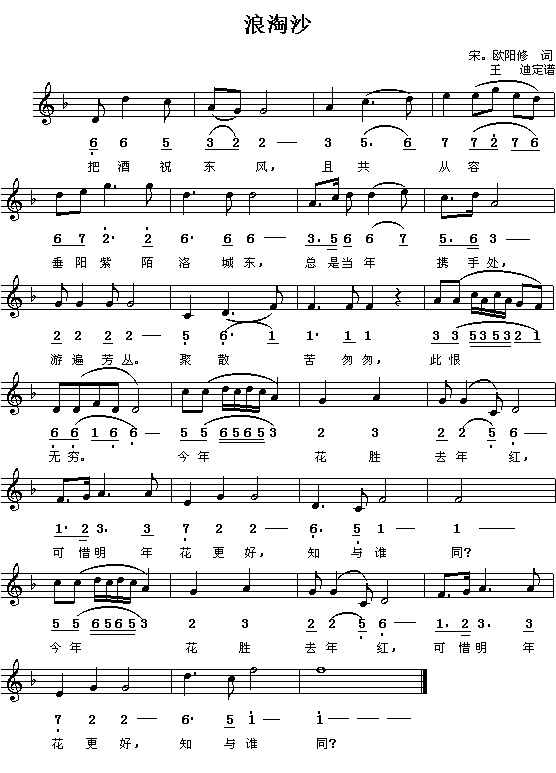
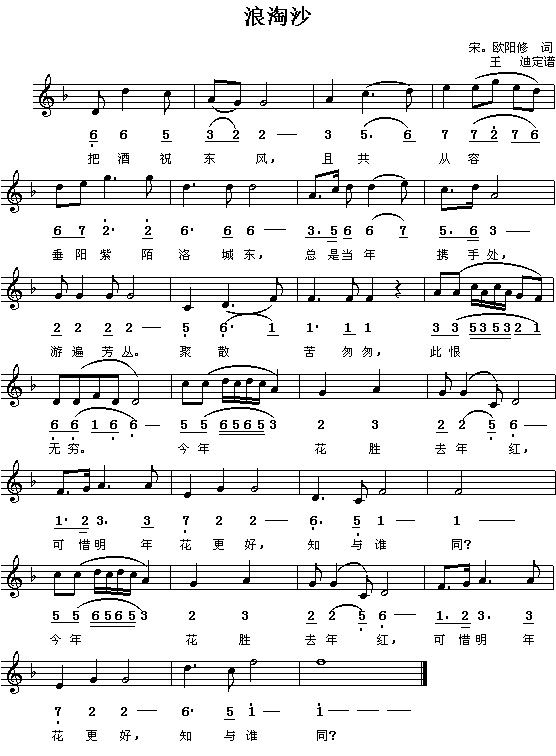
正月初一添加欧阳修曲谱

Changed region(s): [[0.0, 0.0608, 1.0, 0.9735], [0.4281, 0.0, 0.5504, 0.0608]]

diff --git a/myflute.tex b/myflute.tex
@@ -51,15 +51,17 @@
 	\includegraphics[width=\textwidth]{dongxiao/Scan 6.jpeg}
 
 \chapter{首选}
-\section{世上只有媽媽好}        \includegraphics[width=\textwidth]{dongxiao/IMG_0854-世上只有妈妈好.png}
 \section{鐘聲}                  \includegraphics[width=\textwidth]{dongxiao/20200711-钟声.jpg}
-\section{小草}                  \includegraphics[width=\textwidth]{rpi400/20210131小草.jpeg}
-\section{寒山僧踪}              \includegraphics[width=\textwidth]{dongxiao/20200710-寒山僧踪.jpg}
+\section{世上只有媽媽好}        \includegraphics[width=\textwidth]{dongxiao/IMG_0854-世上只有妈妈好.png}
 \section{般若}                  \includegraphics[width=\textwidth]{macos/20210205般若.png}
-\section{雪梅疏影}              \includegraphics[width=0.9\textwidth]{dongxiao/20200725-雪梅疏影}
+\section{寒山僧踪}              \includegraphics[width=\textwidth]{dongxiao/20200710-寒山僧踪.jpg}
 \section{静夜思}                \includegraphics[width=0.9\textwidth]{dongxiao/20200411-静夜思}
-\section{虫儿飞} \includegraphics[width=0.9\textwidth]{macos/20210208虫儿飞.jpg}
+\section{游京} \includegraphics[width=0.9\textwidth]{macos/2020游京.png}
 \section{饮酒}                  \includegraphics[width=\textwidth]{dongxiao/20200808-饮酒-陶渊明.jpg}
+\section{有所思}    \includegraphics[width=\textwidth]{dongxiao/20200710-有所思}
+\section{小草}                  \includegraphics[width=\textwidth]{rpi400/20210131小草.jpeg}
+\section{雪梅疏影}              \includegraphics[width=0.9\textwidth]{dongxiao/20200725-雪梅疏影}
+\section{虫儿飞} \includegraphics[width=0.9\textwidth]{macos/20210208虫儿飞.jpg}
 \section{橄榄树} \includegraphics[width=\textwidth]{rpi400/20210206橄榄树.png}
 \section{任花落} \includegraphics[width=0.9\textwidth]{rpi400/20210206任花落.png}
 \section{问佛} \includegraphics[width=0.9\textwidth]{rpi400/20210212问佛.png}
@@ -78,13 +80,13 @@
 \section{月}\includegraphics[width=0.9\textwidth]{rpi400/20210209月.jpg}
 \section{如歌的行板}\includegraphics[width=0.9\textwidth]{rpi400/20210209如歌的行板.jpg}
 \section{让我们扬帆远去}\includegraphics[width=0.8\textwidth]{rpi400/20210209让我们扬帆远去.jpg}
+\section{邂逅} \includegraphics[width=0.9\textwidth]{macos/20210208邂逅.jpg}
 
 \chapter{姜子牙}
 \section{姜子牙} \includegraphics[width=0.8\textwidth]{rpi400/20210206姜子牙主题曲.png}
 \section{请笃信一个梦} \includegraphics[width=0.85\textwidth]{rpi400/20210206请笃信一个梦.png}
 
 \chapter{二零二零年}
-\section{游京} \includegraphics[width=0.9\textwidth]{macos/2020游京.png}
 \section{相遇} \includegraphics[width=0.9\textwidth]{macos/2020相遇.png}
 \section{关山酒} \includegraphics[width=0.9\textwidth]{macos/2020关山酒.jpg}
 \section{游山恋} \includegraphics[width=0.9\textwidth]{macos/2020游山恋.jpg}
@@ -135,6 +137,27 @@
 \section{辛夷坞}    \includegraphics[width=\textwidth]{dongxiao/20200627-王维-辛夷坞.jpg} 
 \section{红豆}      \includegraphics[width=\textwidth]{dongxiao/20200628-王维-红豆} 
 \section{鸟鸣涧}    \includegraphics[width=\textwidth]{dongxiao/20200627-王维-鸟鸣涧}
+
+\chapter{欧阳修}
+\section{短歌行}    \includegraphics[width=\textwidth]{rpi400/20210212欧阳修-蝶恋花面旋落花风荡漾.jpg} 
+\section{万叶千声} \includegraphics[width=0.9\textwidth]{rpi400/20210212欧阳修-万叶千声.png}
+\section{下劳溪} \includegraphics[width=0.9\textwidth]{rpi400/20210212欧阳修-下劳溪.png}
+\section{劳亭驿} \includegraphics[width=0.9\textwidth]{rpi400/20210212欧阳修-劳亭驿.png}
+\section{泪湿青衫} \includegraphics[width=0.9\textwidth]{rpi400/20210212欧阳修-泪湿青衫.png}
+\section{画眉鸟} \includegraphics[width=0.9\textwidth]{rpi400/20210212欧阳修-画眉鸟.png}
+\section{浪淘沙} \includegraphics[width=0.9\textwidth]{rpi400/20210212欧阳修-浪淘沙.jpg}
+\section{玉楼春-别后不知} \includegraphics[width=0.9\textwidth]{rpi400/20210212欧阳修-玉楼春别后不知君远近.jpg}
+\section{生查子-元夕} \includegraphics[width=0.9\textwidth]{rpi400/20210212欧阳修-生查子元夕.png}
+\section{蝶恋花} \includegraphics[width=0.9\textwidth]{rpi400/20210212欧阳修-蝶恋花.jpg}
+\section{蝶恋花-庭院深深} \includegraphics[width=0.9\textwidth]{rpi400/20210212欧阳修-蝶恋花庭院深深.jpg}
+\section{蝶恋花-面旋落花} \includegraphics[width=0.9\textwidth]{rpi400/20210212欧阳修-蝶恋花面旋落花风荡漾.jpg}
+\section{诉衷情-眉意} \includegraphics[width=0.9\textwidth]{rpi400/20210212欧阳修-诉衷情眉意.jpg}
+\section{醉翁吟} \includegraphics[width=0.8\textwidth]{rpi400/20210212欧阳修-醉翁吟.png}
+\section{采桑子} \includegraphics[width=0.9\textwidth]{rpi400/20210212欧阳修-采桑子.jpg}
+\section{鹧鸪天-学画宫眉} \includegraphics[width=0.9\textwidth]{rpi400/20210212欧阳修-鹧鸪天·学画宫眉细细长.jpg}
+\section{黄溪夜泊} \includegraphics[width=0.9\textwidth]{rpi400/20210212欧阳修-黄溪夜泊.png}
+\section{龙溪} \includegraphics[width=0.9\textwidth]{rpi400/20210212欧阳修-龙溪.png}
+
 
 \chapter{曹操}
 \section{短歌行}    \includegraphics[width=\textwidth]{dongxiao/20200808-短歌行-曹操.jpg} 
@@ -235,7 +258,6 @@
 	
 \chapter{杂录（一）}
 \section{长城谣}    \includegraphics[width=\textwidth]{dongxiao/20200711-长城谣.jpg}
-\section{有所思}    \includegraphics[width=\textwidth]{dongxiao/20200710-有所思}
 \section{西湖春}    \includegraphics[width=\textwidth]{dongxiao/20200711-西湖春.jpg}
 \section{茉莉花}    \includegraphics[width=\textwidth]{dongxiao/20200711-茉莉花.jpg}
 \section{苏武牧羊}  \includegraphics[width=\textwidth]{dongxiao/20200711-苏武牧羊.jpeg}
@@ -372,7 +394,6 @@
 \section{苔} \includegraphics[width=0.9\textwidth]{macos/20210208苔.png}
 \section{故乡} \includegraphics[width=0.9\textwidth]{macos/20210208故乡.jpg}
 \section{窗口} \includegraphics[width=\textwidth]{macos/20210208窗口.jpg}
-\section{邂逅} \includegraphics[width=0.9\textwidth]{macos/20210208邂逅.jpg}
 \section{你真好} \includegraphics[width=0.9\textwidth]{rpi400/20210206你真好.png}
 \section{春之晓} \includegraphics[width=0.9\textwidth]{macos/20210208春之晓.png}
 \section{落花怜} \includegraphics[width=\textwidth]{macos/20210208落花怜.png}
